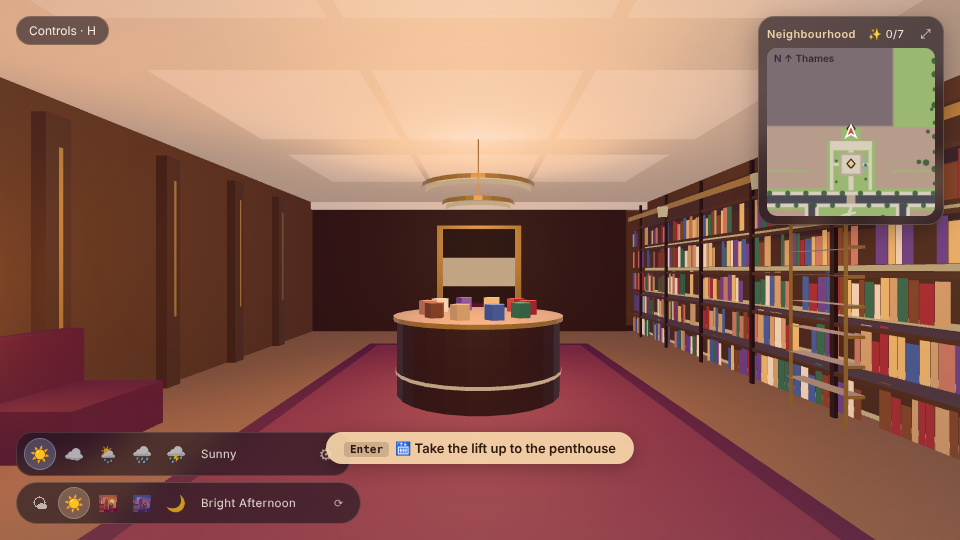
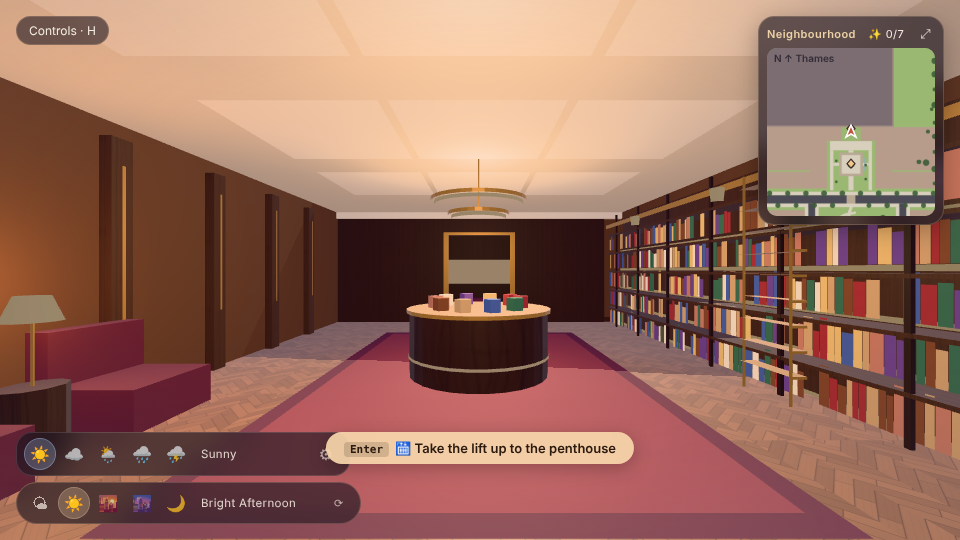
Timber grain and brushed-gold lift leaves textures

diff --git a/src/street/Street.jsx b/src/street/Street.jsx
@@ -26,7 +26,7 @@ function makeMaterials() {
   const M = {
     brick: std({ map: T.brickTex() }), ashlar: std({ map: T.ashlarTex() }), plaster: std({ map: T.plasterTex() }),
     parquet: std({ map: T.parquetTex(), roughness: 0.48, envMapIntensity: 0.6 }), marble: std({ map: T.marbleTex(), roughness: 0.2, envMapIntensity: 0.9 }),
-    trim: std({ roughness: 0.8 }), roof: std({ roughness: 0.78 }), metal: std({ roughness: 0.42, metalness: 0.65 }), wood: std({ roughness: 0.62 }),
+    trim: std({ roughness: 0.8 }), roof: std({ roughness: 0.78 }), metal: std({ roughness: 0.42, metalness: 0.65 }), wood: std({ map: T.woodTex(), roughness: 0.58 }),
     shopin: new THREE.MeshBasicMaterial({ vertexColors: true, toneMapped: true }), shopglass: new THREE.MeshStandardMaterial({ color: '#cfe0e4', transparent: true, opacity: 0.14, roughness: 0.04, metalness: 0, envMapIntensity: 2.6, depthWrite: false }), glass: std({ roughness: 0.1, metalness: 0.0, envMapIntensity: 1.8 }), glow: Object.assign(new THREE.MeshBasicMaterial({ vertexColors: true, toneMapped: false }), { userData: { glow: true } }),
     awning: std({ side: THREE.DoubleSide, roughness: 0.95 }), leaf: std({ roughness: 1 }), trunk: std({ roughness: 1 }),
     sign: std({ map: T.signAtlas(), roughness: 0.65 }),
@@ -158,7 +158,7 @@ export function StreetVisuals() {
   }, [built, M, pool])
 
   const liftGeo = useMemo(() => new THREE.BoxGeometry(0.93, 2.55, 0.05), [])
-  const liftMat = useMemo(() => new THREE.MeshStandardMaterial({ color: '#c8a468', roughness: 0.32, metalness: 1, envMapIntensity: 1.8 }), [])
+  const liftMat = useMemo(() => new THREE.MeshStandardMaterial({ color: '#c8a468', map: T.brushedTex(), roughness: 0.34, metalness: 1, envMapIntensity: 1.8 }), [])
   const waterMat = useMemo(() => new THREE.MeshStandardMaterial({ color: '#4d4a63', roughness: 0.06, metalness: 0.15, transparent: true, opacity: 0.88, normalMap, normalScale: new THREE.Vector2(0.5, 0.5), envMapIntensity: 1.6 }), [normalMap])
   const jetRefs = useRef([]), haloMat = useRef()
   const last = useRef(-1)

diff --git a/src/street/textures.js b/src/street/textures.js
@@ -145,3 +145,17 @@ export const marbleTex = () => mk(512, 512, (g, w, h) => {
   }
   g.strokeStyle = 'rgba(150,140,130,0.5)'; g.lineWidth = 1.5; g.strokeRect(0.5, 0.5, w - 1, h - 1); g.beginPath(); g.moveTo(w / 2, 0); g.lineTo(w / 2, h); g.moveTo(0, h / 2); g.lineTo(w, h / 2); g.stroke()
 })
+
+// timber grain: tile = 1 m. Long streaks along v with knots, greyscale (multiplies the vertex colour)
+export const woodTex = () => mk(256, 512, (g, w, h) => {
+  const R = rng(83); g.fillStyle = gray(226); g.fillRect(0, 0, w, h)
+  for (let i = 0; i < 160; i++) { const x = R() * w, a = 0.05 + R() * 0.12, v = R() < 0.5 ? 60 : 255; g.strokeStyle = `rgba(${v},${v * 0.9},${v * 0.8},${a})`; g.lineWidth = 0.6 + R() * 1.6; g.beginPath(); g.moveTo(x, 0); g.bezierCurveTo(x + (R() - 0.5) * 14, h * 0.3, x + (R() - 0.5) * 14, h * 0.7, x + (R() - 0.5) * 6, h); g.stroke() }
+  for (let k = 0; k < 3; k++) { const x = R() * w, y = R() * h; g.strokeStyle = 'rgba(70,45,30,0.14)'; for (let r = 3; r < 16; r += 3) { g.lineWidth = 1; g.beginPath(); g.ellipse(x, y, r * 0.6, r * 1.8, 0, 0, 6.3); g.stroke() } }
+})
+
+// brushed metal: fine vertical streaks (greyscale), tile 1 m
+export const brushedTex = () => mk(256, 256, (g, w, h) => {
+  const R = rng(97); g.fillStyle = gray(225); g.fillRect(0, 0, w, h)
+  for (let i = 0; i < 420; i++) { const x = R() * w, v = R() < 0.5 ? 90 : 255; g.strokeStyle = `rgba(${v},${v},${v},${0.04 + R() * 0.1})`; g.lineWidth = 0.5 + R(); g.beginPath(); g.moveTo(x, 0); g.lineTo(x + (R() - 0.5) * 2, h); g.stroke() }
+  const gr = g.createLinearGradient(0, 0, 0, h); gr.addColorStop(0, 'rgba(255,255,255,0.10)'); gr.addColorStop(0.5, 'rgba(0,0,0,0.06)'); gr.addColorStop(1, 'rgba(255,255,255,0.08)'); g.fillStyle = gr; g.fillRect(0, 0, w, h)
+})
